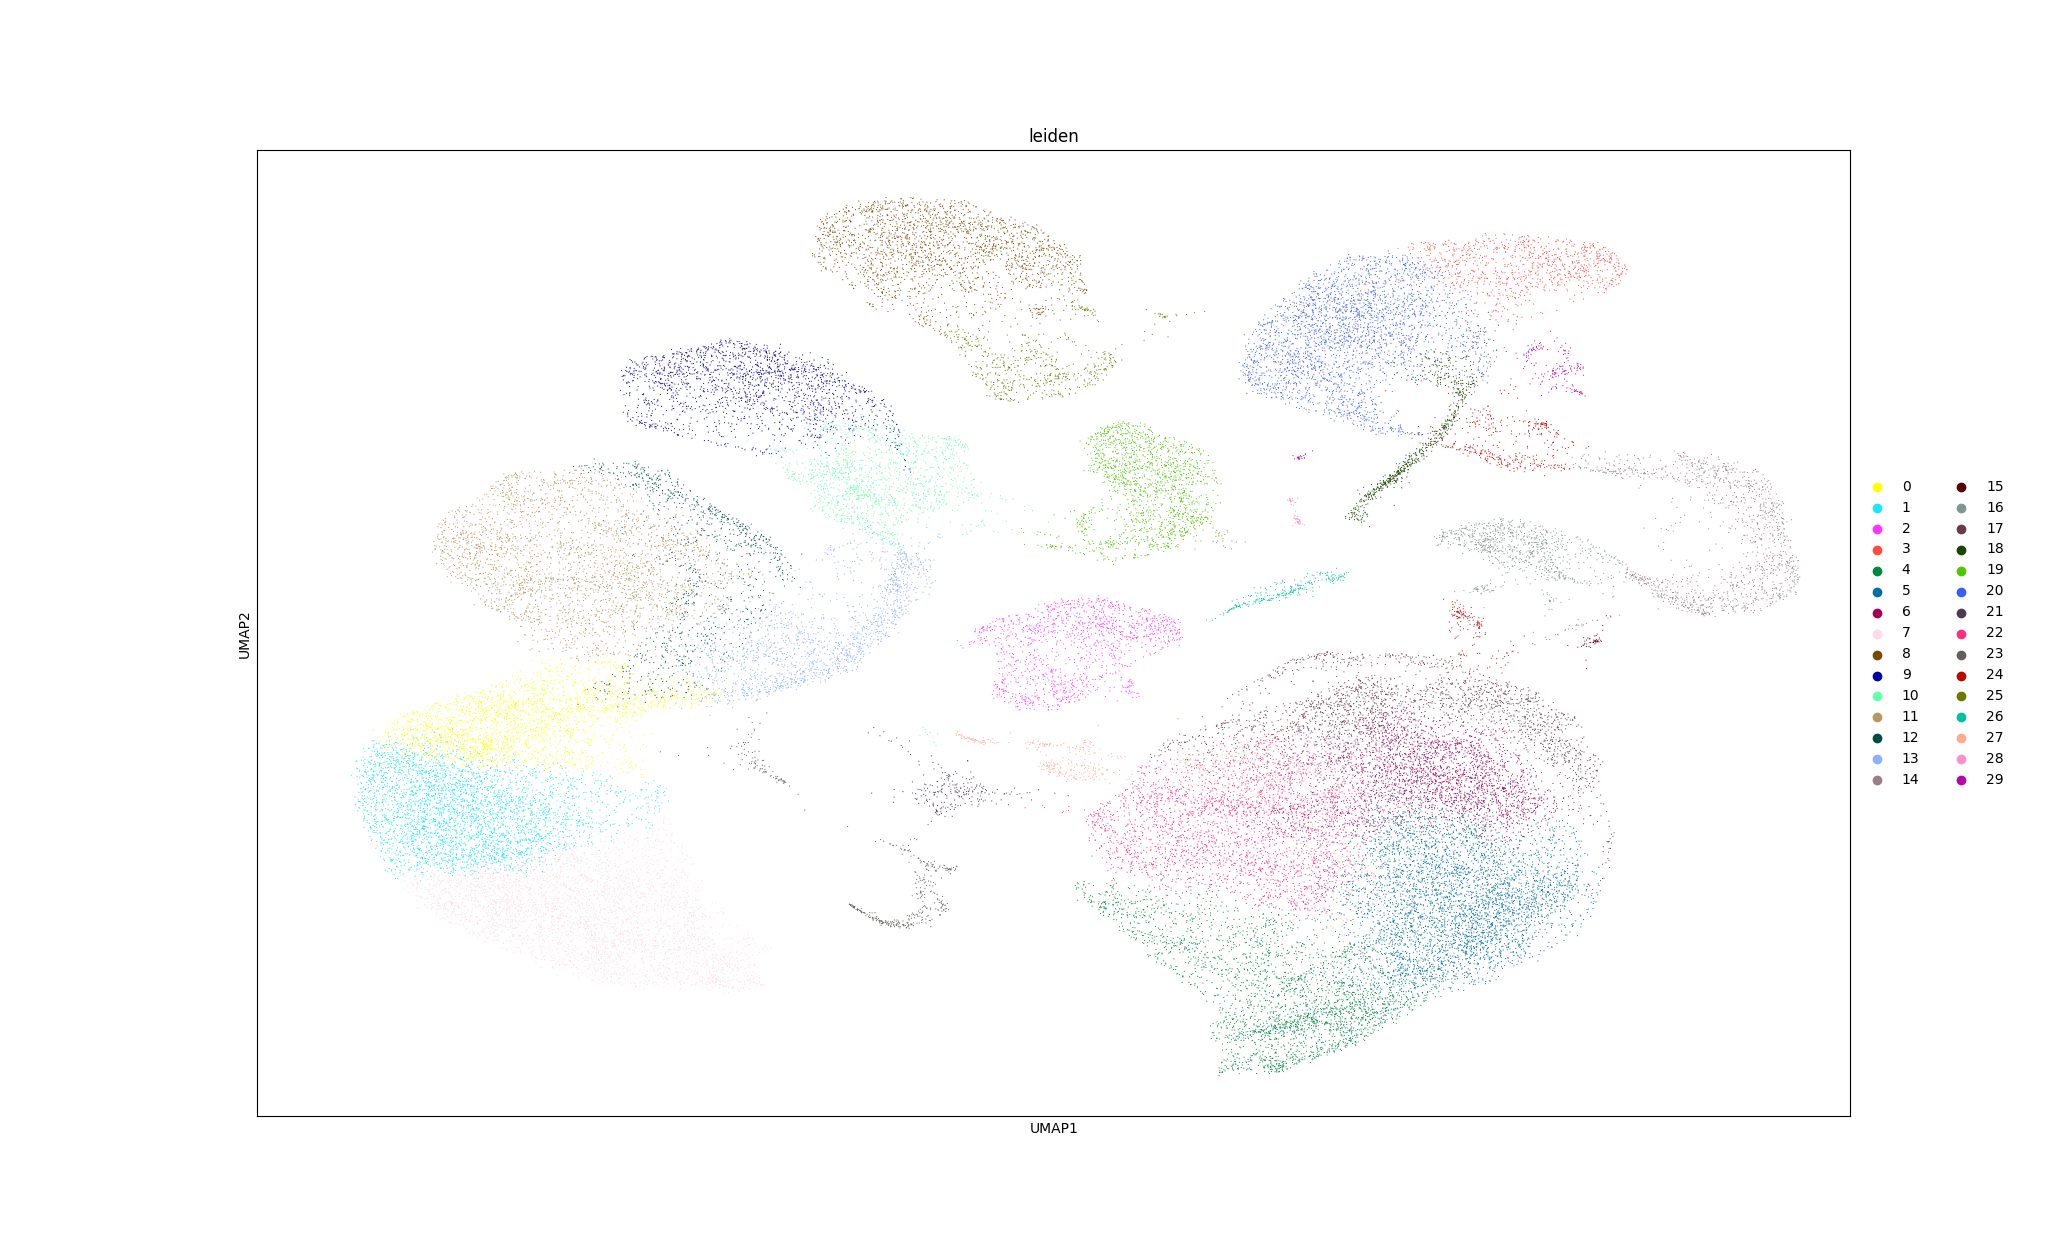
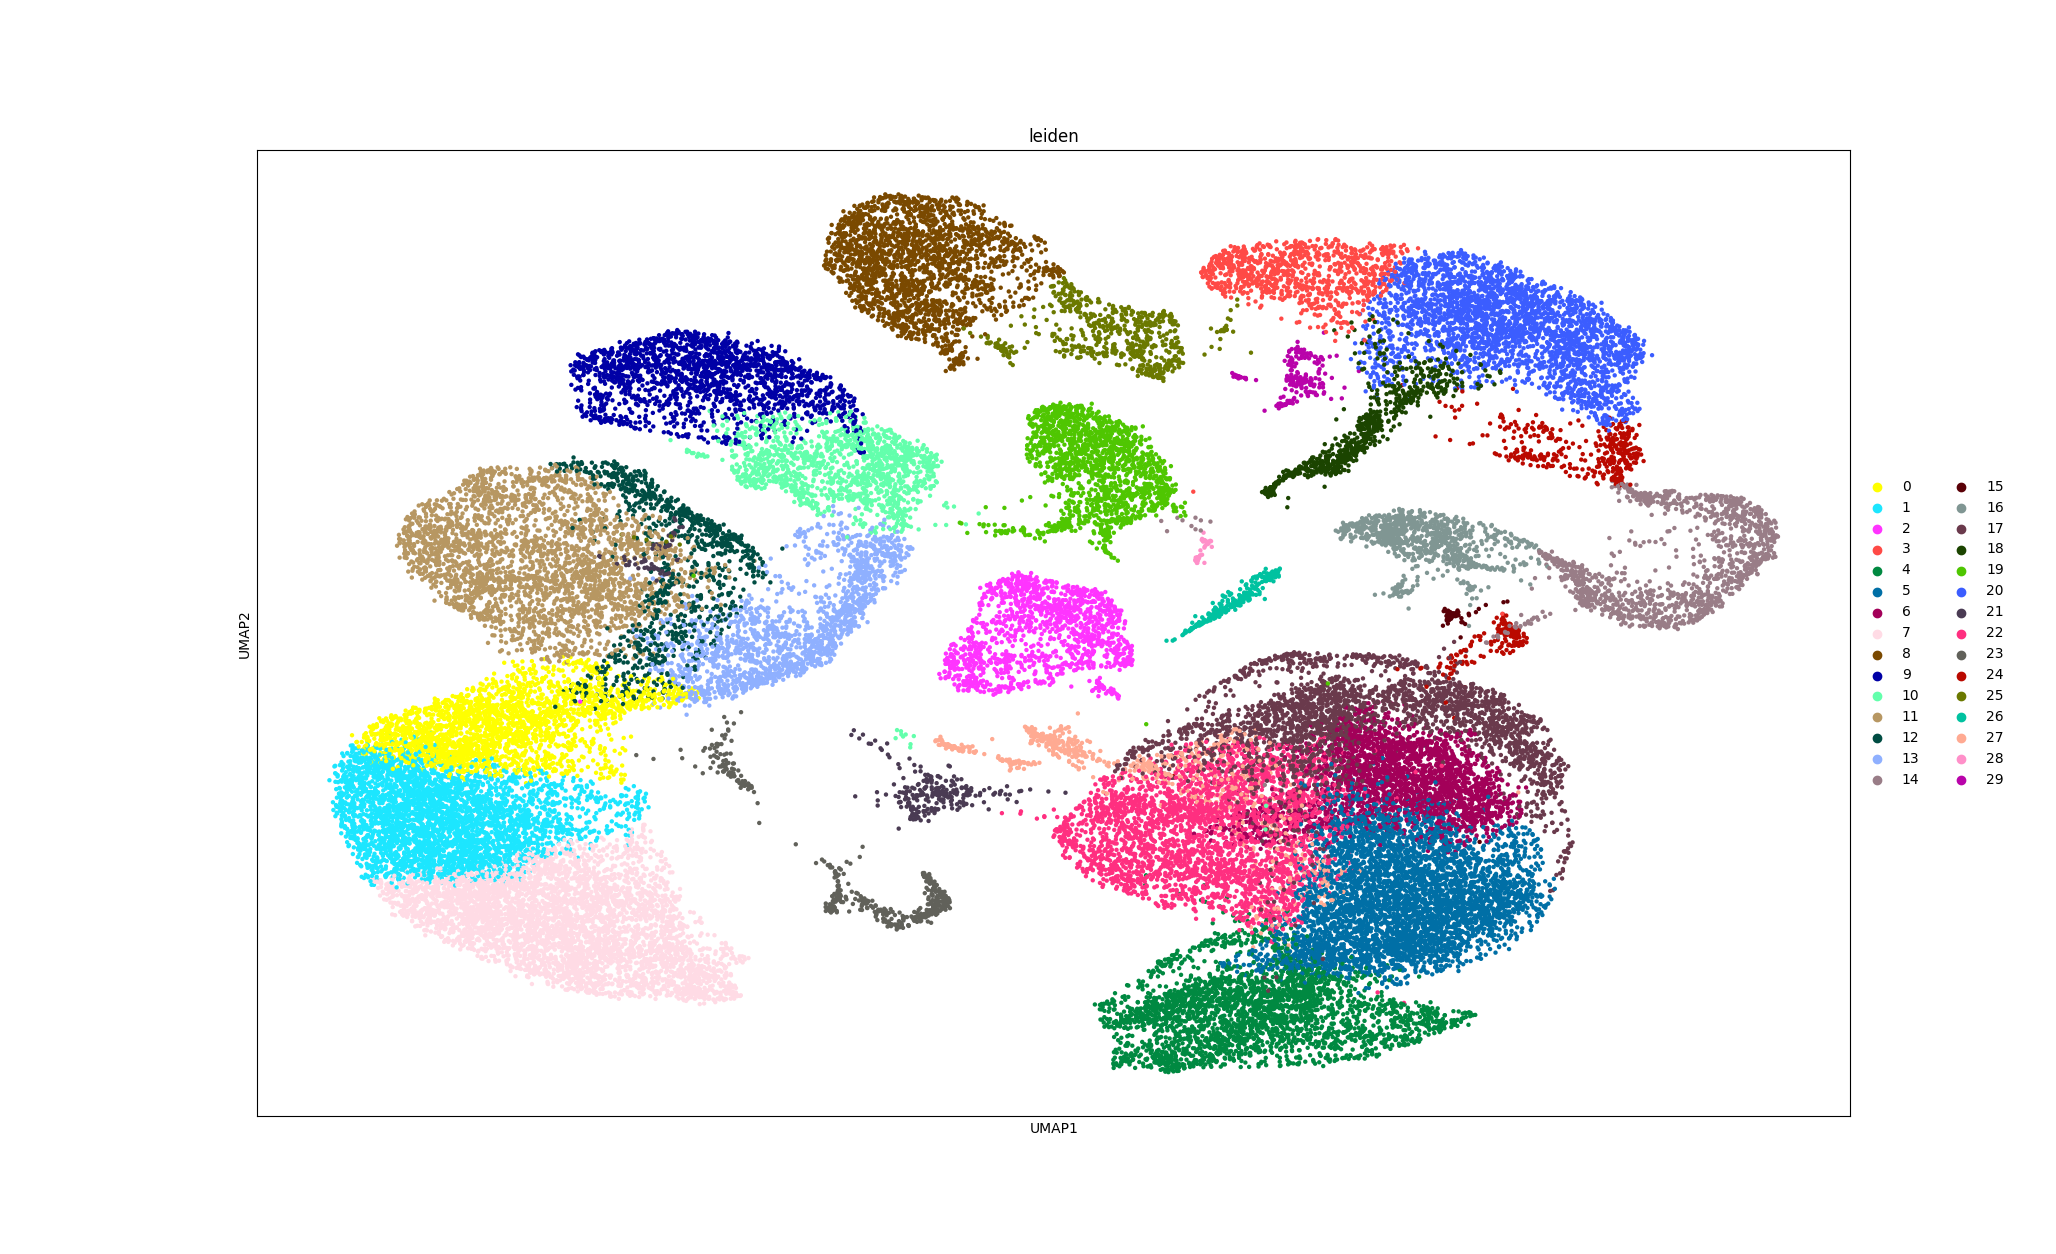
updated leiden

Changed region(s): [[0.1556, 0.1555, 0.8716, 0.8708], [0.4047, 0.6842, 0.4669, 0.7464], [0.3424, 0.5909, 0.3735, 0.622]]

diff --git a/preprocess.py b/preprocess.py
@@ -147,7 +147,7 @@ def normalize_and_embed(
     )
     # Export Leiden clustering results
     sc.tl.umap(adata_hvg)
-    sc.pl.umap(adata_hvg, color=["leiden"])
+    sc.pl.umap(adata_hvg, color=["leiden"], size=40, alpha=1.0)
     adata.obsm["X_pca"] = adata_hvg.obsm["X_pca"]
     adata.obsm["X_umap"] = adata_hvg.obsm["X_umap"]
     adata.obs["leiden"] = adata_hvg.obs["leiden"].values

diff --git a/run_pipeline.py b/run_pipeline.py
@@ -56,7 +56,7 @@ def build_processed() -> None:
     adata.obs["cell_type"] = adata.obs["leiden"].map(cluster_to_type).astype("category")
     adata.uns["cluster_to_type"] = cluster_to_type
     adata.obs["fate_OL_lineage"] = adata.obs["cell_type"].isin(OL_LINEAGE).astype(int)
-    sc.pl.umap(adata, color="cell_type")
+    sc.pl.umap(adata, color="cell_type", size=40, alpha=1.0)
 
     OUT.mkdir(exist_ok=True)
     h5 = OUT / "processed.h5ad"